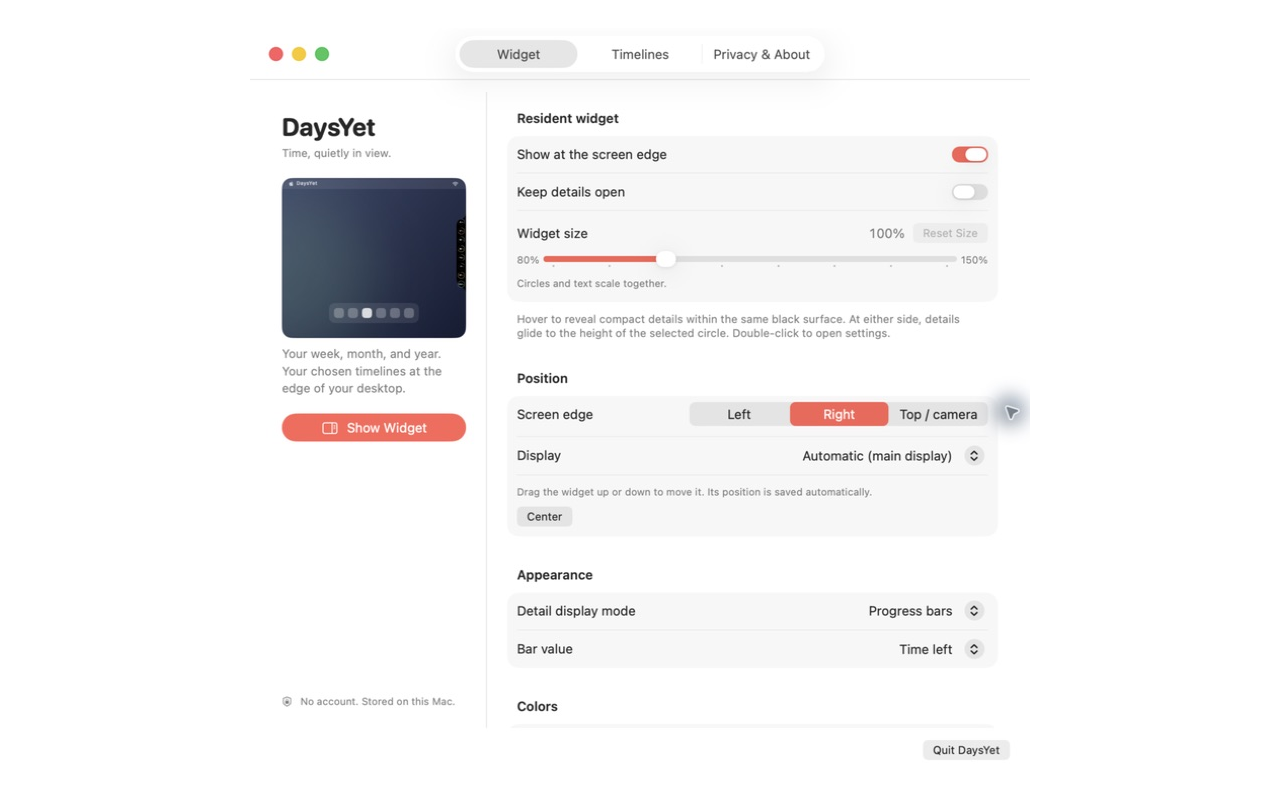
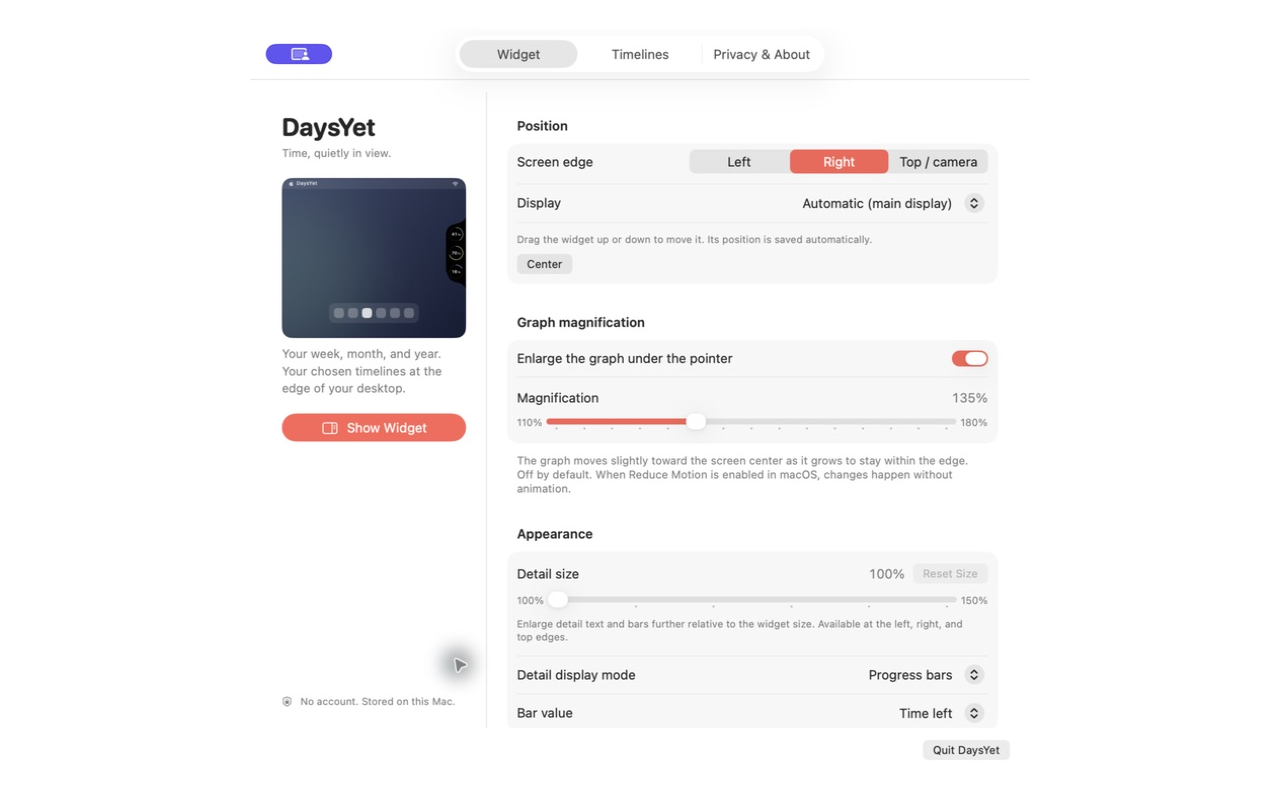
Prepare macOS 0.1.6 for App Review

diff --git a/AppStore/macos/screenshots/README.md b/AppStore/macos/screenshots/README.md
@@ -1,10 +1,10 @@
 # Native Mac screenshots
 
-Prepared on 2026-09-11 from the native DaysYet macOS **0.1.5 (8)** Debug app. The `ja/` and `en-US/` folders each contain seven images for the corresponding App Store Connect localization, for 14 images in total. This file records screenshot preparation and verification; upload and review submission are recorded separately in the [0.1.5 release record](../../releases/0.1.5.md).
+The `ja/` and `en-US/` folders each contain seven images for the corresponding App Store Connect localization, for 14 images in total. On 2026-09-13, **only `01-widget-settings.png` in each locale was replaced** with a native DaysYet macOS **0.1.6 (9)** Debug capture showing the new graph magnification and detail-size controls. The other **12 images are retained byte for byte from 0.1.5 (8)**, captured on 2026-09-11, and show features unchanged in 0.1.6. This file records screenshot preparation and verification; it does not establish upload or review submission. The prior submission is recorded in the [0.1.5 release record](../../releases/0.1.5.md).
 
 | File | Actual app content |
 | --- | --- |
-| `01-widget-settings.png` | The native Widget tab scrolled to Resident widget, Position, and Appearance, showing size, placement, drag guidance, and detail controls. |
+| `01-widget-settings.png` | 0.1.6 (9): the native Widget tab showing Position, Graph magnification enabled at 135%, Detail size at 100%, and detail display controls. The new option's default-off behavior and Reduce Motion guidance are visible. |
 | `02-side-widget.png` | The expanded right-side widget with eight progress circles. Japanese shows the current month; English shows the fictional study plan. |
 | `03-top-widget.png` | The expanded top widget with three progress strips, using the first three selected timelines. Japanese shows the current month; English shows the fictional study plan. |
 | `04-activity-hours.png` | Two activity schedules with labels, start/end times, and active weekday controls. |
@@ -21,10 +21,12 @@ Every final image is a **1280 × 800 RGB PNG without an alpha channel**. Decoded
 | Side widget | 204 × 462 | `(1076, 169)`, attached to the right edge |
 | Top widget | 280 × 106 | `(500, 0)`, attached to the top edge |
 
-All app content was captured from the running native Debug app through Computer Use. The screenshot mode supplied synthetic, temporary profiles and preferences. For English captures, the same Debug app was copied with a dedicated capture-only Bundle ID and ad-hoc signature to keep the capture target separate from the installed app. Product source and app UI were not changed for photography. Temporary language arguments applied only to the capture process; normal app preferences were not edited.
+The two 0.1.6 settings images were captured through Computer Use from a native Debug app built using the Xcode GUI. An ignored capture project overrode only the Mac Debug bundle ID to isolate the capture app; the product source and app UI were unchanged. Japanese and English screenshot-mode arguments supplied synthetic profiles and UUID-scoped temporary preferences. Normal app settings were not edited. A private source-hash manifest verifies all 44 tracked Swift files against the product source used for these captures.
 
-The study plans are fictional examples. Japanese uses September 11–October 8 with Monday, Wednesday, and Saturday selected, plus September 11 individually, for 13 selected and remaining days at capture. English uses September 1–28 with Monday, Wednesday, and Friday selected, plus September 12 individually, for 13 selected days and nine remaining days at capture. Remaining counts include today when selected and describe scheduled days, not completed study sessions. The activity images show daily activity from 07:00 to 23:00 every day and work hours from 09:00 to 18:00 with weekends off. No private desktop content or other app windows are included.
+The 12 retained 0.1.5 images were also captured from the running native Debug app through Computer Use with synthetic, temporary profiles and preferences. For those English captures, the same Debug app was copied with a dedicated capture-only Bundle ID and ad-hoc signature to keep it separate from the installed app. Product source and app UI were not changed for photography, and temporary language arguments applied only to the capture process.
 
-Original captures, composition commands, source/output hashes, app-region pixel hashes, and capture-app provenance are retained in ignored local release artifacts. The raw tool captures are JPEG-encoded even where their local filenames end in `.png`; all published screenshot files were explicitly exported as RGB PNG. The isolated capture app was stopped after the final capture.
+The study plans in the retained images are fictional examples. Japanese uses September 11–October 8 with Monday, Wednesday, and Saturday selected, plus September 11 individually, for 13 selected and remaining days at capture. English uses September 1–28 with Monday, Wednesday, and Friday selected, plus September 12 individually, for 13 selected days and nine remaining days at capture. Remaining counts include today when selected and describe scheduled days, not completed study sessions. The activity images show daily activity from 07:00 to 23:00 every day and work hours from 09:00 to 18:00 with weekends off. No private desktop content or other app windows are included.
 
-This set replaces the eight screenshots prepared from macOS 0.1.4 (7) on 2026-09-08. Earlier screenshot dimensions, headings, counts, and submission statuses are historical and do not describe this set.
+Original captures, composition commands, source/output hashes, app-region pixel hashes, and capture-app provenance are retained in private local release artifacts outside the published source. Raw tool captures are JPEG-encoded (some older local filenames end in `.png`); all published screenshot files were explicitly exported as RGB PNG. Both new settings images were verified to preserve their 780 × 744 native regions exactly at `(250, 28)`, and the retained 12 files were verified unchanged from the prior set.
+
+The original 0.1.5 set replaced the eight screenshots prepared from macOS 0.1.4 (7) on 2026-09-08. Earlier screenshot dimensions, headings, counts, and submission statuses are historical and do not describe this mixed 0.1.6/0.1.5 set.

diff --git a/AppStore/releases/0.1.6-macos.md b/AppStore/releases/0.1.6-macos.md
@@ -1,0 +1,36 @@
+# macOS 0.1.6 (9) release candidate
+
+This candidate contains the optional side-graph magnification and synchronized
+detail transitions merged in PRs #22–24. Only the Mac app and Mac tests move to
+0.1.6 (9); iOS / iPadOS and its Widget remain at 0.1.5 (8).
+
+## Changes
+
+- Optional left/right hover magnification, off by default, adjustable from
+  110–180% with a default of 135%. The selected circle moves inward as it grows.
+- Circle enlargement and detail opening, closing, and row movement start
+  together. Detail text grows with the opening surface without clipped fragments.
+- Independent detail size from 100–150% at every edge. Reduce Motion presents
+  the resulting state without animation. Saved preferences are preserved.
+- Japanese and English store copy and review instructions describe these controls.
+
+## Candidate validation
+
+The isolated release checkout was based on `80723b9`, excluding the development
+checkout's uncommitted diagnostic logging. Xcode 26.6 (17F113) passed all 183 Mac
+and 81 iOS unit tests. Release compliance and asset validation passed. A redacted
+Gitleaks scan of the existing 41-commit history found no leaks.
+
+The actual Mac views were checked in Japanese and English on both sides at five
+opening fractions, with 180% graph magnification and 150% detail size. The settings
+image is refreshed for this candidate; the other screenshots retain their
+unchanged feature coverage. Screenshot provenance is recorded in the
+[Mac screenshot notes](../macos/screenshots/README.md).
+
+## Distribution
+
+This file records candidate preparation, not Apple approval. The signed archive,
+validation/upload results, exact source commit, and submission receipt belong in
+the private release record. App Store Connect is authoritative for processing,
+review, and release status. Existing pricing, availability, and release settings
+are retained. The previous submission is recorded in [0.1.5](0.1.5.md).
